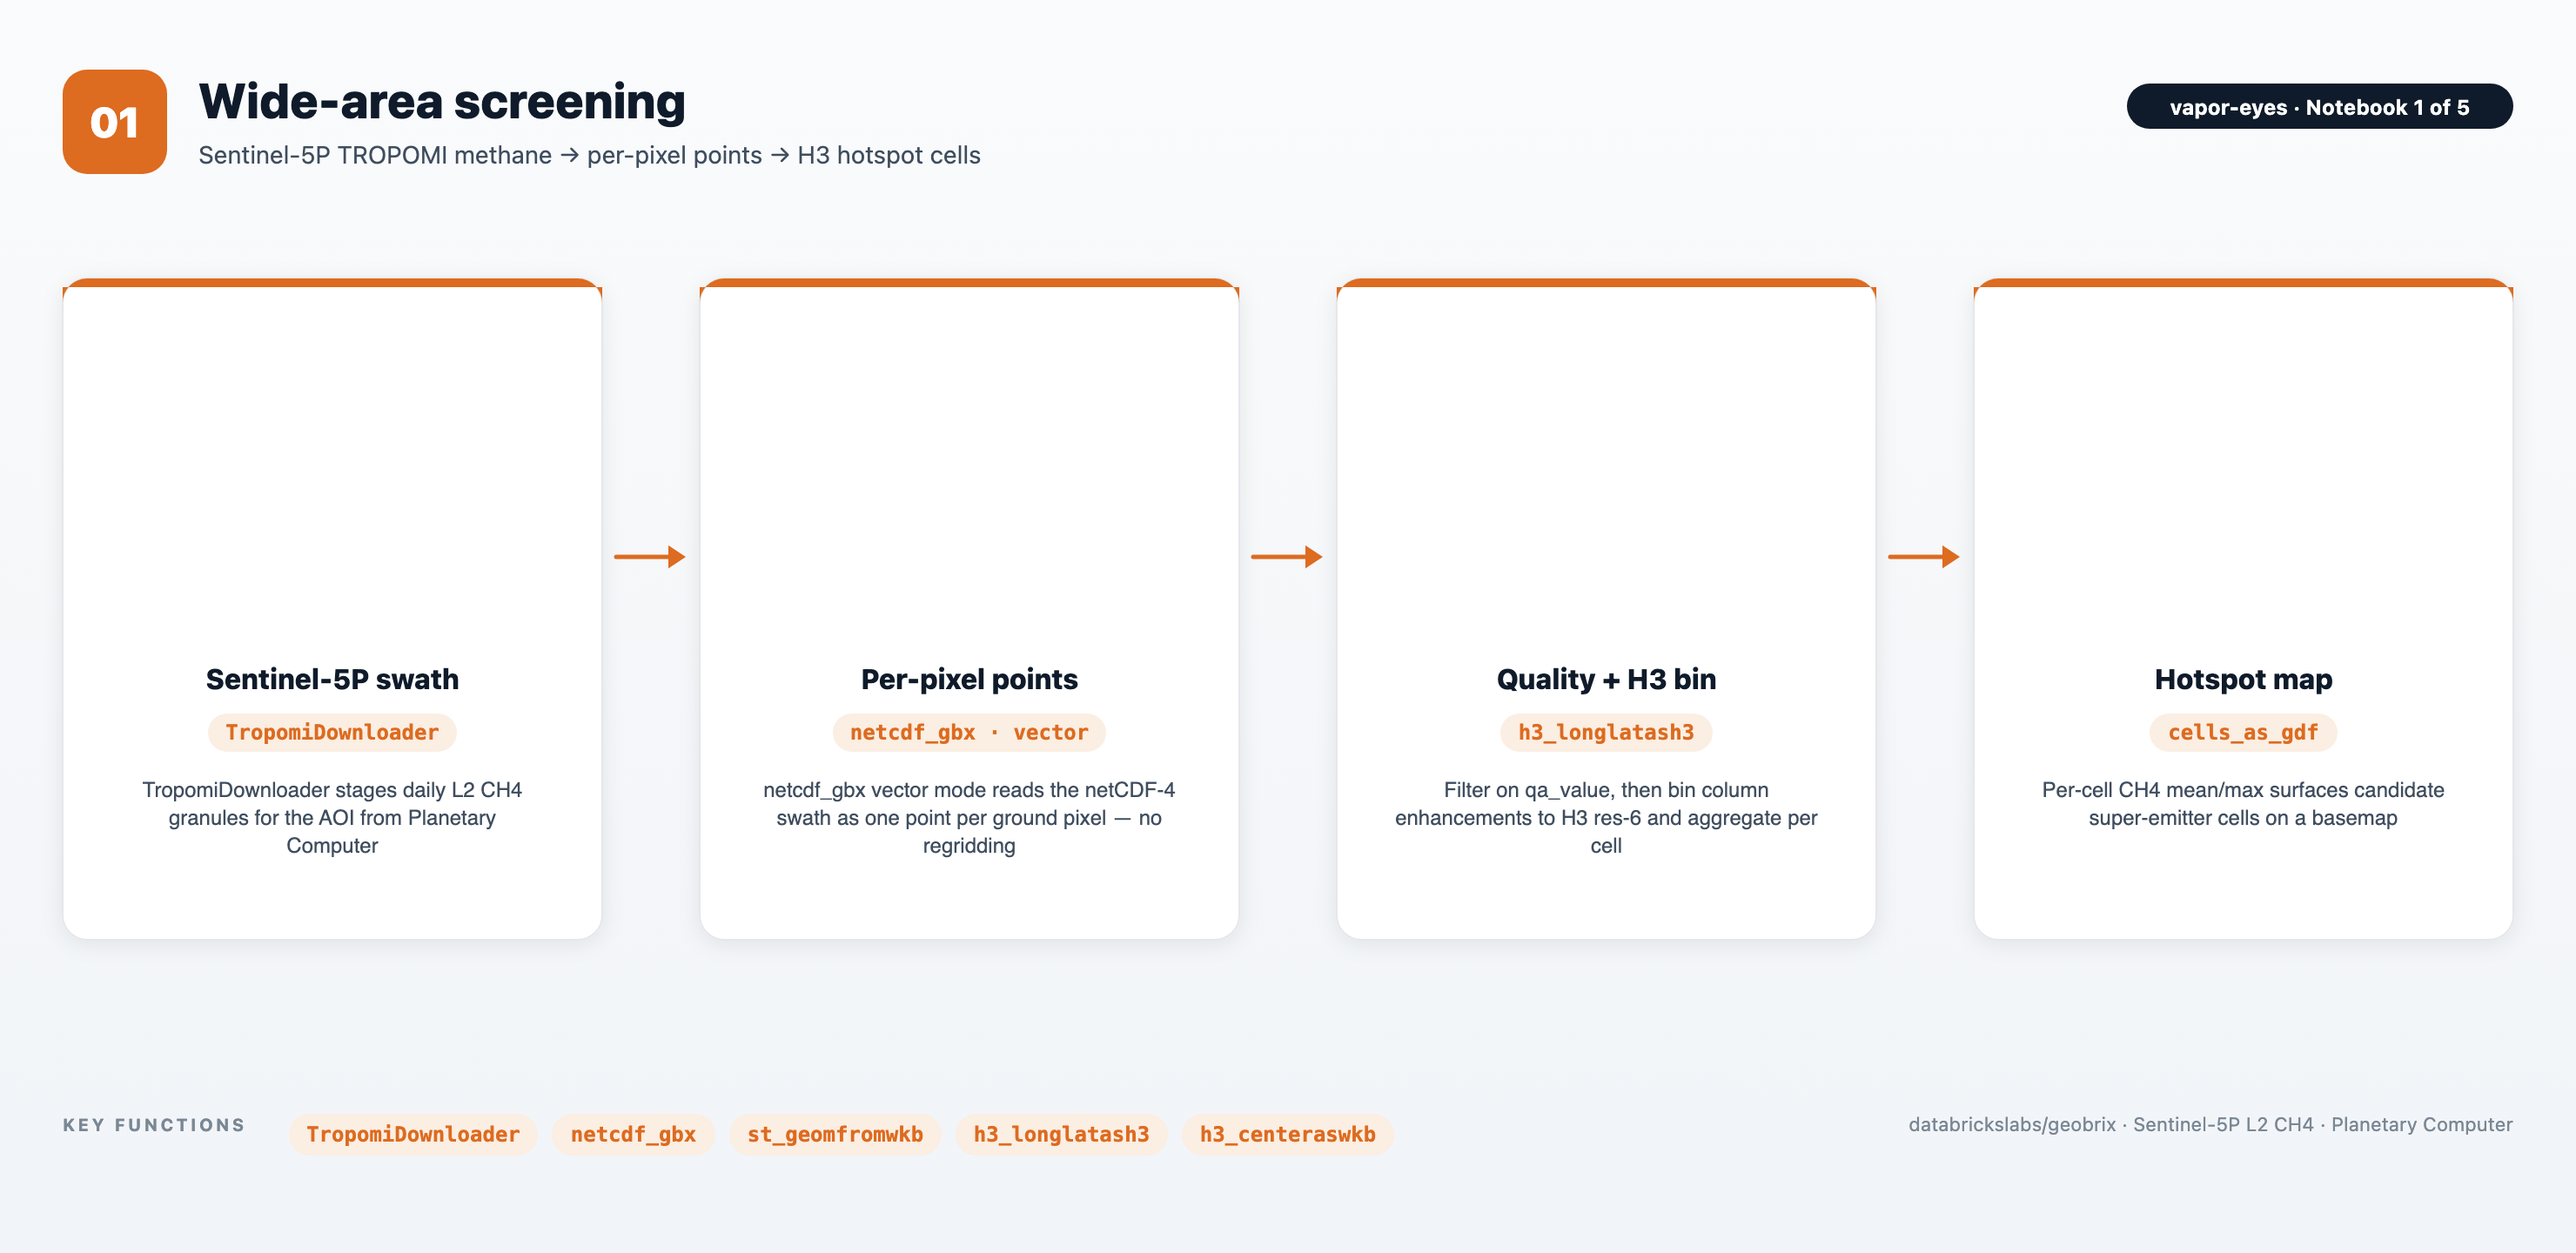
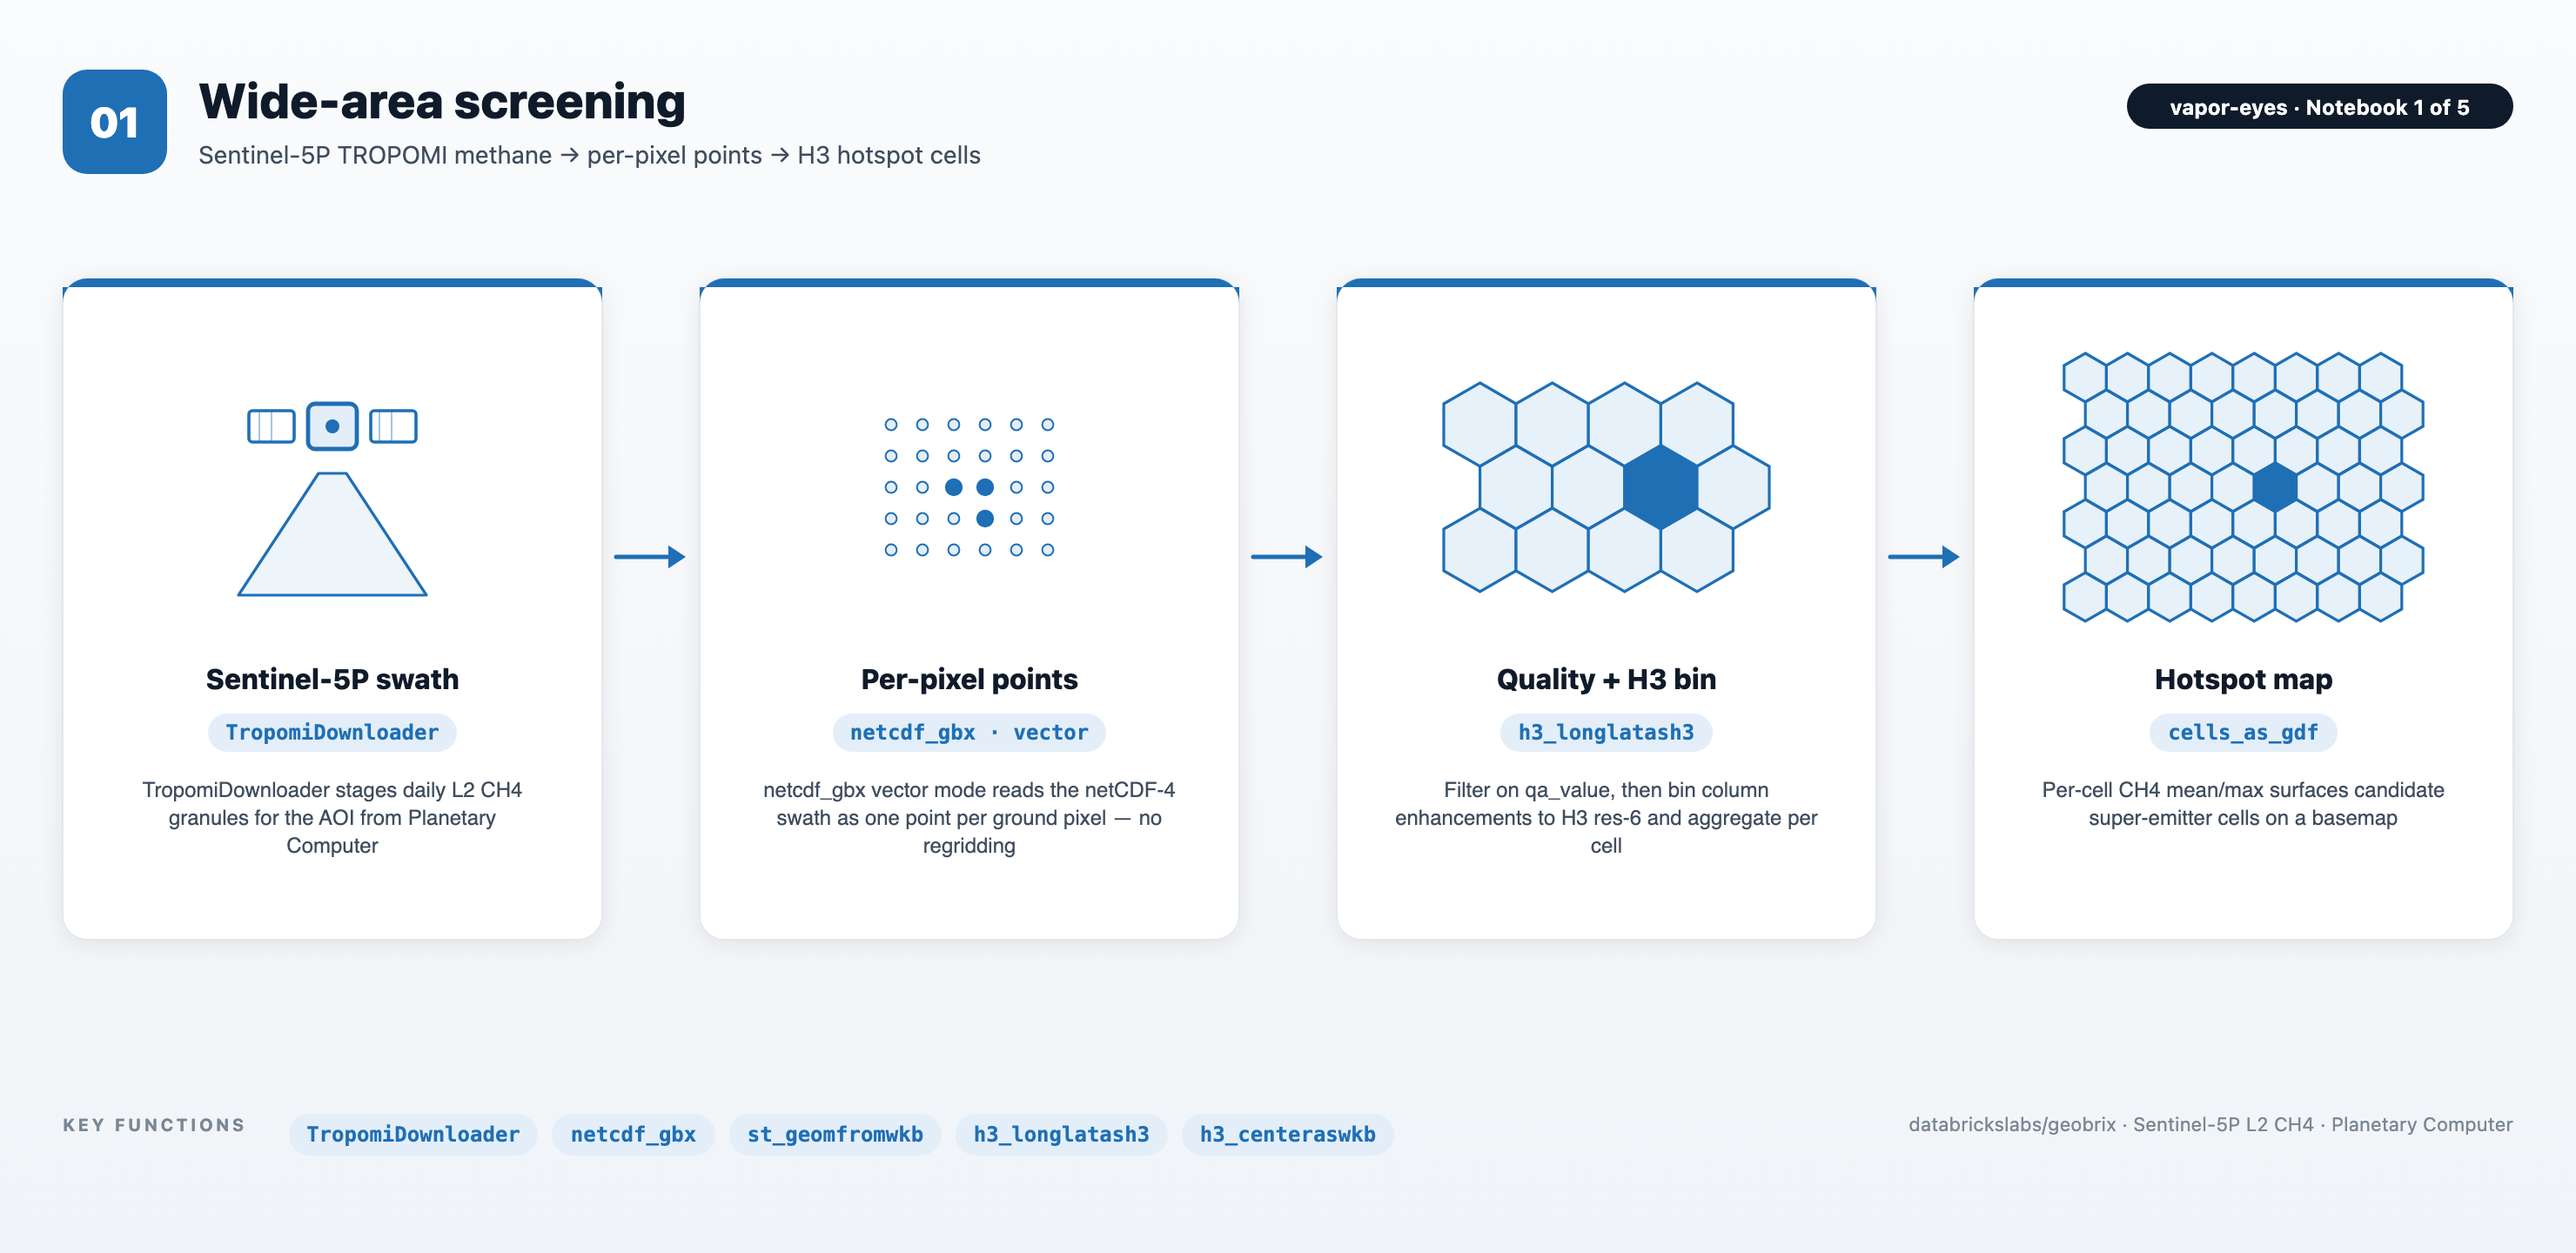
docs(vapor-eyes): diagram palette + per-stage glyphs, render NB01-05
Adopt the helios accent progression (blue/orange/teal/violet) plus a rose
fifth for NB05, as a per-notebook THEMES map. Give every stage card a glyph
(reused eo-series/helios illustrations plus methane-domain customs: satellite
swath, per-pixel points, well pads, nearest-wells links, stacked layers) so
the cards are illustrated, not empty. Render all five diagrams.

diff --git a/resources/images/generators/vapor-eyes.py b/resources/images/generators/vapor-eyes.py
@@ -39,9 +39,114 @@ CANVAS_W, CANVAS_H, PAD = eo.CANVAS_W, eo.CANVAS_H, eo.PAD
 HEADER_H, STAGE_TOP_GAP, STAGE_H = eo.HEADER_H, eo.STAGE_TOP_GAP, eo.STAGE_H
 ARROW_W, FOOTER_H = eo.ARROW_W, eo.FOOTER_H
 
-# vapor-eyes series accent (emissions amber) + tint.
-ACCENT = "#DD6B20"
-TINT = "#FBEEE2"
+# helios glyphs (COG catalog, map pin, tile pyramid, archives, globe) reused below
+_HEL = os.path.join(_HERE, "helios.py")
+_hspec = importlib.util.spec_from_file_location("helios_gen", _HEL)
+hel = importlib.util.module_from_spec(_hspec)
+_hspec.loader.exec_module(hel)
+
+
+# --- methane-domain custom glyphs (eo/helios cover the rest) ------------------
+def g_satellite(cx, cy, color, tint):
+    """A satellite with solar panels over a ground swath cone (TROPOMI/EMIT)."""
+    out = [
+        f'<polygon points="{cx-8},{cy-8} {cx+8},{cy-8} {cx+54},{cy+62} '
+        f'{cx-54},{cy+62}" fill="{tint}" stroke="{color}" stroke-width="1.6" '
+        f'stroke-linejoin="round" fill-opacity="0.65"/>',
+        f'<rect x="{cx-14}" y="{cy-48}" width="28" height="26" rx="4" '
+        f'fill="{tint}" stroke="{color}" stroke-width="2.4"/>',
+        f'<rect x="{cx-48}" y="{cy-44}" width="26" height="18" rx="2" '
+        f'fill="#FFFFFF" stroke="{color}" stroke-width="1.8"/>',
+        f'<rect x="{cx+22}" y="{cy-44}" width="26" height="18" rx="2" '
+        f'fill="#FFFFFF" stroke="{color}" stroke-width="1.8"/>',
+        f'<circle cx="{cx}" cy="{cy-35}" r="4" fill="{color}"/>',
+    ]
+    for dx in (-42, -35, 27, 34):
+        out.append(
+            f'<line x1="{cx+dx}" y1="{cy-44}" x2="{cx+dx}" y2="{cy-26}" '
+            f'stroke="{color}" stroke-width="0.8" stroke-opacity="0.5"/>'
+        )
+    return "".join(out)
+
+
+def g_pixel_points(cx, cy, color, tint):
+    """A grid of per-pixel sample points with a hot cluster highlighted."""
+    cols, rows, sp = 6, 5, 18
+    x0 = cx - (cols - 1) * sp / 2
+    y0 = cy - (rows - 1) * sp / 2
+    hot = {(2, 2), (2, 3), (3, 3)}
+    out = []
+    for r in range(rows):
+        for c in range(cols):
+            x, y = x0 + c * sp, y0 + r * sp
+            fill = color if (r, c) in hot else tint
+            rad = 4.6 if (r, c) in hot else 3.2
+            out.append(
+                f'<circle cx="{x:.0f}" cy="{y:.0f}" r="{rad}" fill="{fill}" '
+                f'stroke="{color}" stroke-width="1"/>'
+            )
+    return "".join(out)
+
+
+def _well(x, y, color, tint, r=9):
+    return (
+        f'<circle cx="{x}" cy="{y}" r="{r}" fill="{tint}" stroke="{color}" '
+        f'stroke-width="2"/>'
+        f'<polygon points="{x-4},{y+3} {x+4},{y+3} {x},{y-6}" fill="{color}"/>'
+    )
+
+
+def g_well_pads(cx, cy, color, tint):
+    """A scatter of well-pad markers (surface holes)."""
+    return "".join(
+        _well(cx + dx, cy + dy, color, tint)
+        for dx, dy in [(-40, -20), (4, -32), (36, 8), (-16, 26), (22, -2)]
+    )
+
+
+def g_layers(cx, cy, color, tint):
+    """Three stacked map layers (hotspots / plumes / wells) with a hex motif."""
+    out = [
+        f'<rect x="{cx-54+dx}" y="{cy-30+dy}" width="108" height="58" rx="9" '
+        f'fill="{tint}" fill-opacity="{op}" stroke="{color}" stroke-width="2"/>'
+        for dx, dy, op in [(18, 14, 0.5), (0, 0, 0.72), (-18, -14, 0.95)]
+    ]
+    hx, hy, R = cx - 18, cy - 14, 13
+    pts = [(0, -1), (0.866, -0.5), (0.866, 0.5), (0, 1), (-0.866, 0.5), (-0.866, -0.5)]
+    poly = " ".join(f"{hx+px*R:.1f},{hy+py*R:.1f}" for px, py in pts)
+    out.append(
+        f'<polygon points="{poly}" fill="#FFFFFF" stroke="{color}" stroke-width="1.8"/>'
+    )
+    return "".join(out)
+
+
+def g_nearest_wells(cx, cy, color, tint):
+    """A plume origin linked to its nearest candidate well pads."""
+    wells = [(-42, 20), (32, 28), (46, -14)]
+    out = [
+        f'<line x1="{cx}" y1="{cy}" x2="{cx+dx}" y2="{cy+dy}" stroke="{color}" '
+        f'stroke-width="1.4" stroke-dasharray="4 3" stroke-opacity="0.7"/>'
+        for dx, dy in wells
+    ]
+    out += [_well(cx + dx, cy + dy, color, tint, r=8) for dx, dy in wells]
+    out.append(f'<circle cx="{cx}" cy="{cy}" r="10" fill="{color}"/>')
+    out.append(
+        f'<circle cx="{cx}" cy="{cy}" r="16" fill="none" stroke="{color}" '
+        f'stroke-width="1.5" stroke-opacity="0.5"/>'
+    )
+    return "".join(out)
+
+# Per-notebook accent progression — the same sequence helios/eo-series use
+# (blue -> orange -> teal -> violet), extended with a fifth (rose/crimson) for
+# the NB05 portfolio synthesis. accent = stage stripe + header badge; tint =
+# chip fill.
+THEMES = {
+    1: {"accent": "#1F6FB5", "tint": "#E3EEF8"},   # blue   — regional screen
+    2: {"accent": "#E04E2A", "tint": "#FCE9E2"},   # orange — targeted detect
+    3: {"accent": "#0F8E8B", "tint": "#D5ECEC"},   # teal   — quantify
+    4: {"accent": "#6B4FA0", "tint": "#EDE8F5"},   # violet — attribution
+    5: {"accent": "#C2255C", "tint": "#FADCE6"},   # rose   — portfolio synthesis
+}
 N_NOTEBOOKS = 5
 
 
@@ -124,16 +229,16 @@ NOTEBOOKS = {
         stages=[
             Stage(title="Sentinel-5P swath",
                   subtitle="TropomiDownloader stages daily L2 CH4 granules for the AOI from Planetary Computer",
-                  chip_text="TropomiDownloader"),
+                  chip_text="TropomiDownloader", glyph=g_satellite),
             Stage(title="Per-pixel points",
                   subtitle="netcdf_gbx vector mode reads the netCDF-4 swath as one point per ground pixel — no regridding",
-                  chip_text="netcdf_gbx · vector"),
+                  chip_text="netcdf_gbx · vector", glyph=g_pixel_points),
             Stage(title="Quality + H3 bin",
                   subtitle="Filter on qa_value, then bin column enhancements to H3 res-6 and aggregate per cell",
-                  chip_text="h3_longlatash3"),
+                  chip_text="h3_longlatash3", glyph=eo.g_hex_grid),
             Stage(title="Hotspot map",
                   subtitle="Per-cell CH4 mean/max surfaces candidate super-emitter cells on a basemap",
-                  chip_text="cells_as_gdf"),
+                  chip_text="cells_as_gdf", glyph=eo.g_dense_hex_grid),
         ],
         chips=["TropomiDownloader", "netcdf_gbx", "st_geomfromwkb", "h3_longlatash3",
                "h3_centeraswkb"],
@@ -145,20 +250,86 @@ NOTEBOOKS = {
         stages=[
             Stage(title="Hotspot cell",
                   subtitle="Take the strongest s5p_hotspots cell (NB01) and use its footprint as the AOI",
-                  chip_text="s5p_hotspots"),
+                  chip_text="s5p_hotspots", glyph=eo.g_single_hex),
             Stage(title="Sentinel-2 SWIR",
                   subtitle="StacClient stages B11/B12 SWIR COGs windowed to the cell, from the least-cloudy item",
-                  chip_text="StacClient · B11/B12"),
+                  chip_text="StacClient · B11/B12",
+                  glyph=lambda cx, cy, c, t: eo.g_band_fanout(cx, cy)),
             Stage(title="SWIR index",
                   subtitle="rst_mapalgebra computes (B11-B12)/(B11+B12) — high where B12 absorbs: a methane proxy",
-                  chip_text="rst_mapalgebra"),
+                  chip_text="rst_mapalgebra", glyph=eo.g_multiband_tile),
             Stage(title="H3 plume cells",
                   subtitle="rst_h3_tessellate grids the index into fine H3 cells for a per-cell plume fraction",
-                  chip_text="rst_h3_tessellate"),
+                  chip_text="rst_h3_tessellate", glyph=eo.g_dense_hex_grid),
         ],
         chips=["StacClient", "gtiff_gbx", "rst_mapalgebra", "rst_h3_tessellate",
                "rst_summary"],
         note="databrickslabs/geobrix  ·  Sentinel-2 L2A  ·  Planetary Computer",
+    ),
+    3: dict(
+        title="Quantification",
+        subtitle="EMIT 60 m CH4 enhancement + plume complexes → clip, summarize, emission rate",
+        stages=[
+            Stage(title="EMIT products",
+                  subtitle="EmitDownloader stages the CH4 enhancement COG + plume-complex GeoJSON for the AOI from NASA LP DAAC",
+                  chip_text="EmitDownloader", glyph=hel.g_cog_catalog),
+            Stage(title="Plume metadata",
+                  subtitle="geojson_gbx reads each plume outline plus JPL's emission-rate + max-concentration estimate",
+                  chip_text="geojson_gbx", glyph=eo.g_polygon_ak),
+            Stage(title="Clip + summarize",
+                  subtitle="rst_clip cuts the enhancement raster to each plume outline; rst_summary measures it",
+                  chip_text="rst_clip · rst_summary", glyph=eo.g_clip_with_buffer),
+            Stage(title="Emission rate",
+                  subtitle="Per-plume kg/hr over a basemap; GeoBrix's clipped-raster max cross-checks JPL's reported peak",
+                  chip_text="plume_quant",
+                  glyph=lambda cx, cy, c, t: eo.g_delta_table(cx, cy, c, t, label="plume_quant")),
+        ],
+        chips=["EmitDownloader", "geojson_gbx", "raster_gbx", "rst_clip",
+               "rst_summary"],
+        note="databrickslabs/geobrix  ·  EMIT L2B CH4  ·  NASA LP DAAC",
+    ),
+    4: dict(
+        title="Attribution",
+        subtitle="EMIT plume origin → nearest candidate wells → operator shortlist",
+        stages=[
+            Stage(title="Plume origin",
+                  subtitle="Each EMIT plume's max-concentration point (lon/lat) from NB03's emit_plumes is the origin to attribute",
+                  chip_text="emit_plumes", glyph=hel.g_map_pin),
+            Stage(title="TX RRC wells",
+                  subtitle="WellsDownloader stages WellSHL surface-hole locations for the AOI; geojson_gbx reads operator + API + point",
+                  chip_text="WellsDownloader", glyph=g_well_pads),
+            Stage(title="Nearest wells",
+                  subtitle="st_distancesphere over st_point / st_geomfromwkb ranks the K nearest permitted wells per plume",
+                  chip_text="st_distancesphere", glyph=g_nearest_wells),
+            Stage(title="Operator shortlist",
+                  subtitle="Each plume tied to a ranked short-list of candidate operator well pads; wind transport narrows the emitter",
+                  chip_text="plume_candidate_wells",
+                  glyph=lambda cx, cy, c, t: eo.g_delta_table(cx, cy, c, t, label="candidates")),
+        ],
+        chips=["WellsDownloader", "geojson_gbx", "st_point", "st_geomfromwkb",
+               "st_distancesphere"],
+        note="databrickslabs/geobrix  ·  TX RRC WellSHL  ·  ArcGIS REST",
+    ),
+    5: dict(
+        title="Synthesis",
+        subtitle="Hotspots + plumes + wells → vector PMTiles → one shareable methane portfolio",
+        stages=[
+            Stage(title="Three layers",
+                  subtitle="S5P hotspot hexagons (h3_boundaryaswkb), EMIT plume outlines and TX RRC wells from the cascade tables",
+                  chip_text="cascade tables", glyph=g_layers),
+            Stage(title="MVT pyramid",
+                  subtitle="gbx_st_asmvt_pyramid encodes each layer into tile-local vector tiles across the zoom range",
+                  chip_text="gbx_st_asmvt_pyramid", glyph=hel.g_xyz_pyramid),
+            Stage(title="PMTiles archive",
+                  subtitle="gbx_pmtiles_agg folds the whole pyramid into one PMTiles v3 archive, merging features per layer",
+                  chip_text="gbx_pmtiles_agg", glyph=hel.g_stacked_archive),
+            Stage(title="Shareable portfolio",
+                  subtitle="One self-contained vapor_eyes.pmtiles — screen, detect, quantify, attribute — panned in-browser, no server",
+                  chip_text="vapor_eyes.pmtiles", glyph=hel.g_webmercator_globe),
+        ],
+        chips=["h3_boundaryaswkb", "gbx_st_asmvt_pyramid", "gbx_pmtiles_agg",
+               "show_pmtiles"],
+        note="databrickslabs/geobrix  ·  vector PMTiles  ·  lightweight tier",
     ),
 }
 
@@ -167,10 +338,11 @@ def main():
     out_dir = os.path.join(_HERE, "..", "diagrams", "vapor-eyes")
     os.makedirs(out_dir, exist_ok=True)
     for num, nb in NOTEBOOKS.items():
+        theme = THEMES[num]
         svg = render_diagram(
             f"{num:02d}", nb["title"], nb["subtitle"],
             f"vapor-eyes  ·  Notebook {num} of {N_NOTEBOOKS}",
-            ACCENT, TINT, nb["stages"], nb["chips"], nb["note"],
+            theme["accent"], theme["tint"], nb["stages"], nb["chips"], nb["note"],
         )
         path = os.path.join(out_dir, f"vapor-eyes-{num:02d}.svg")
         with open(path, "w") as f:
